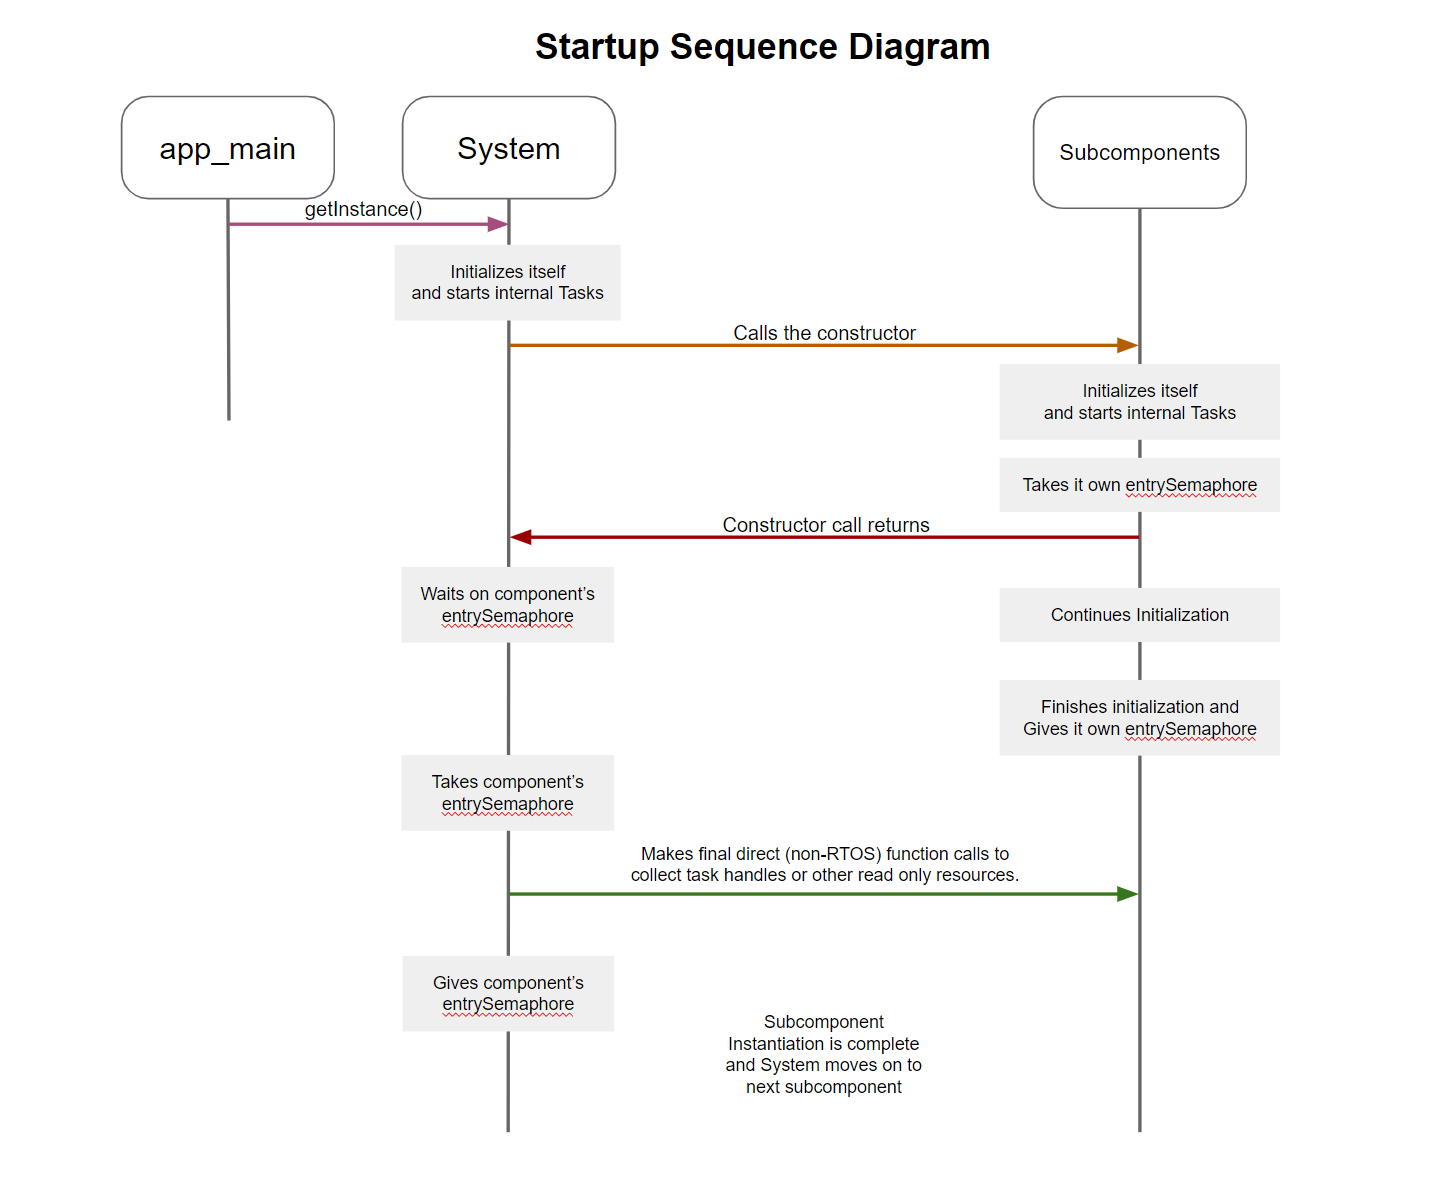
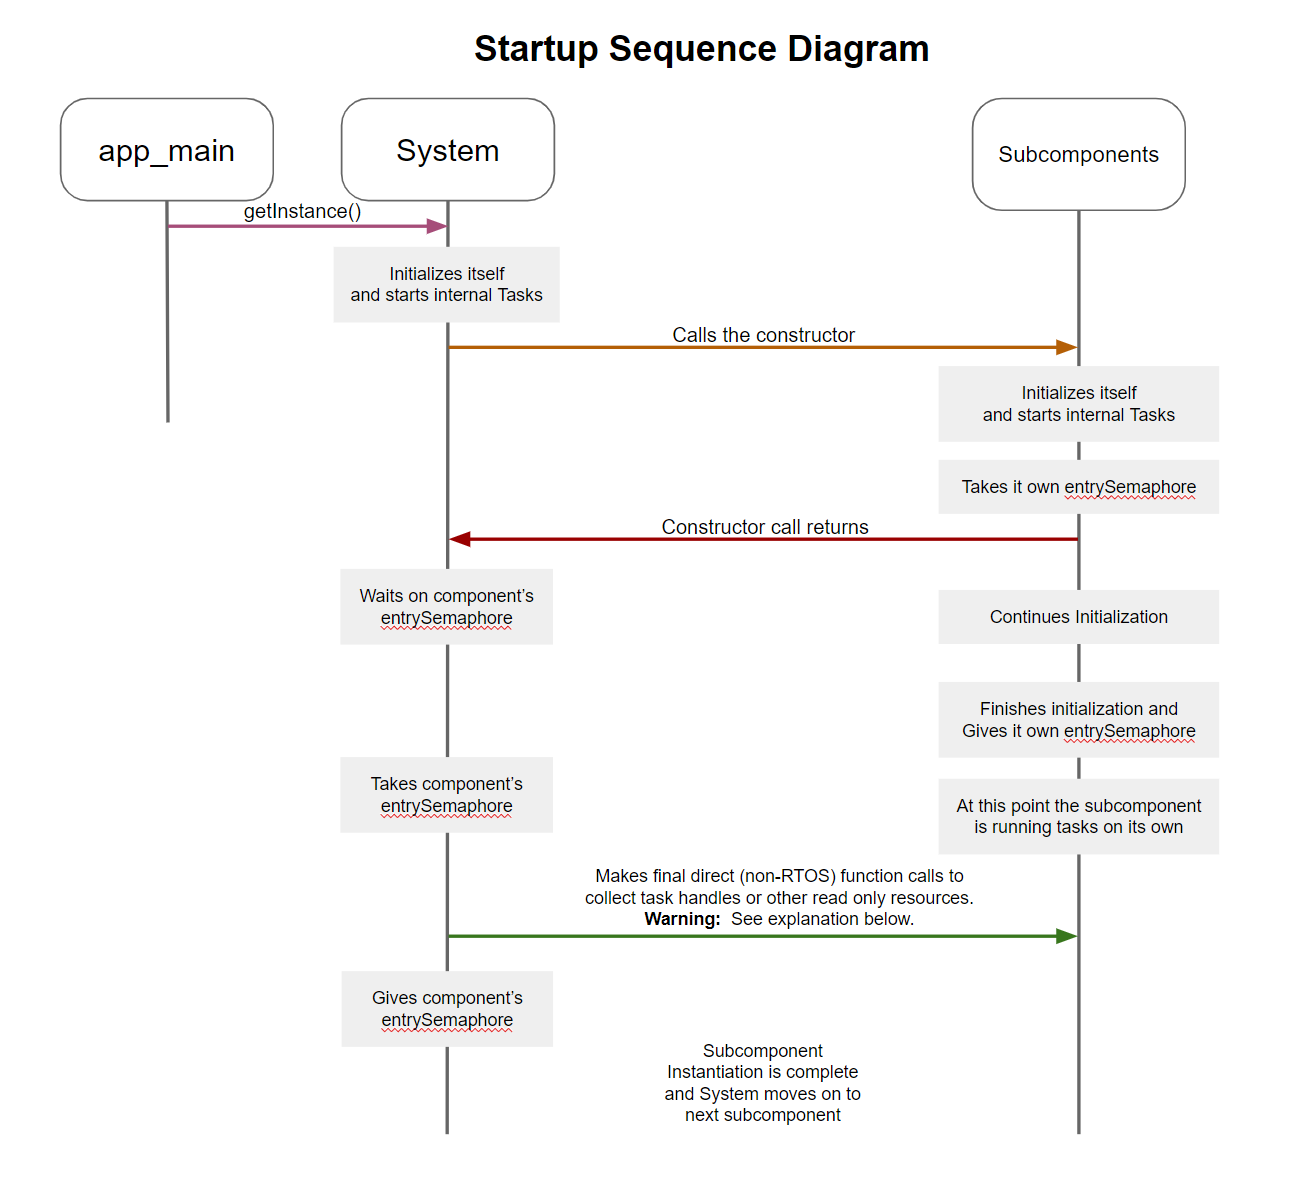
Doc Update

diff --git a/docs/project_sequences.md b/docs/project_sequences.md
@@ -1,5 +1,11 @@
 # Project Sequences
-At a project level, a sequence might include how the hardware gets starts and stops.
+At a project level, a sequence includes the general startup process.  Here, the app_main() start the sytem, and in turn
+
 
 ![system_starup_sequence](./images/project_startup_sequence.png)
 
+**Warning:** The final calls to the component object are dangerous with respect to cross Task (thread) safety. The calls are in most cases just retreiving important RTOS varibles that are needed to setup cross Task sharing of data.   For example, we can't send a Task Notification or send to a Queue without handles to those items.
+
+To mitigate risks, the component initializes those data varibles early before it "gives" its entrySemaphore.   And the calling System object "takes" the component's entrySemaphore before reading those variable handles.   All this typically happens during start up when all system activity is very limited and very predicatble and the result so far have been very trouble free.
+
+This is enough detail for a Project Level descriptionl.
